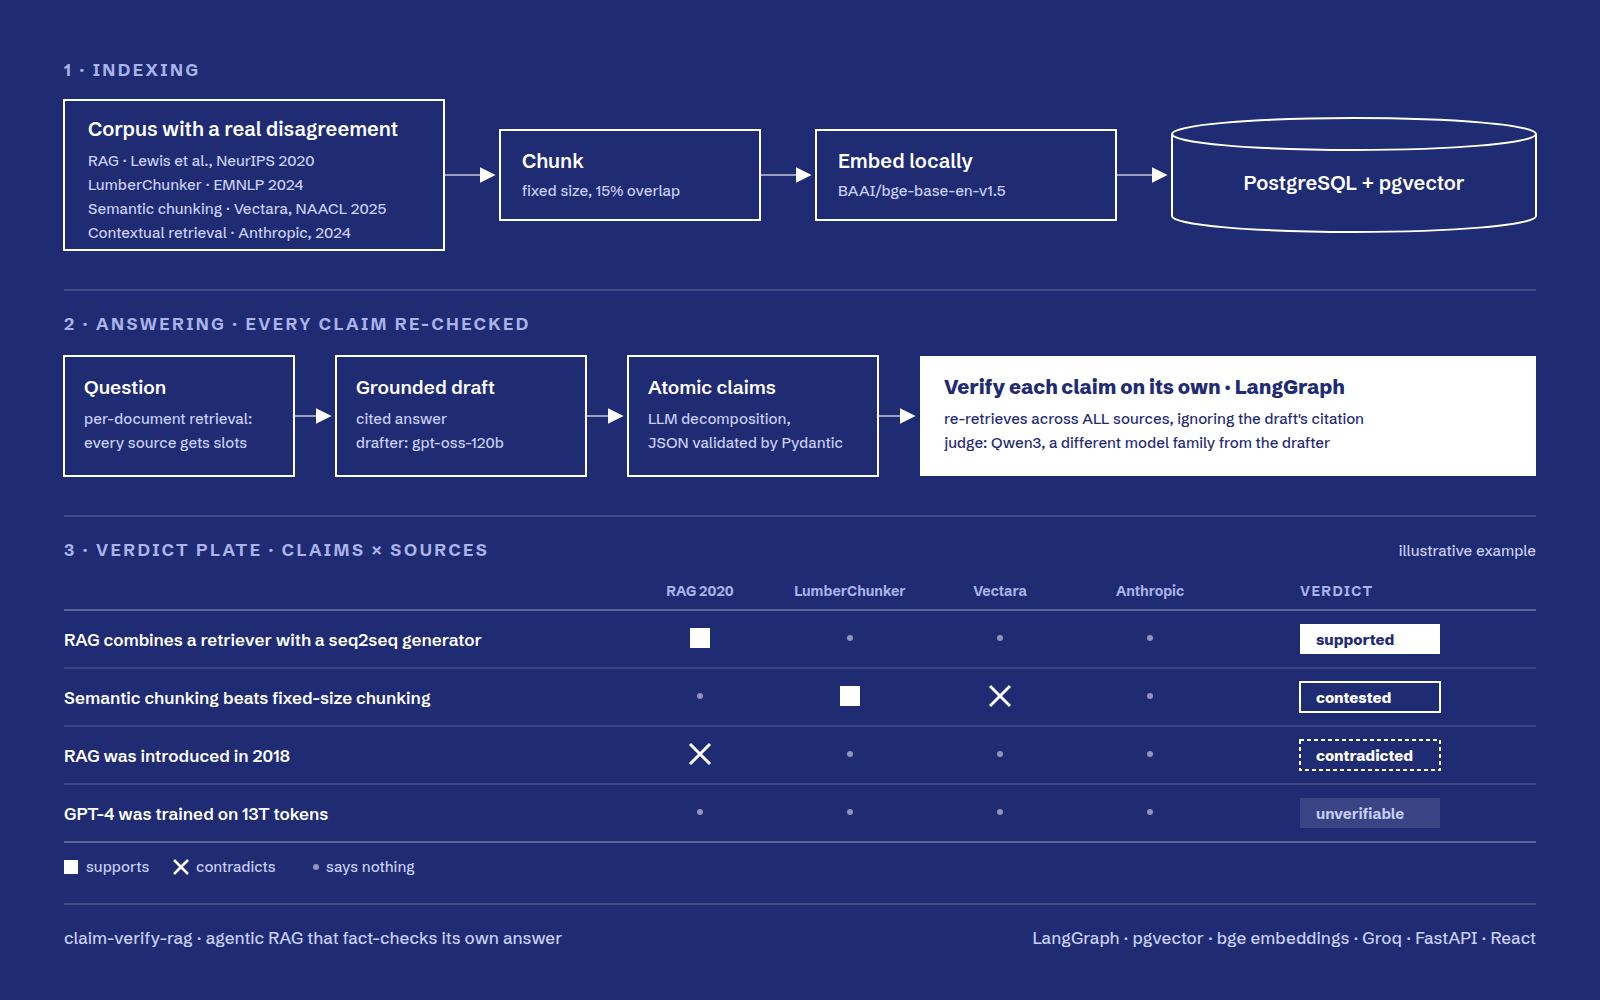
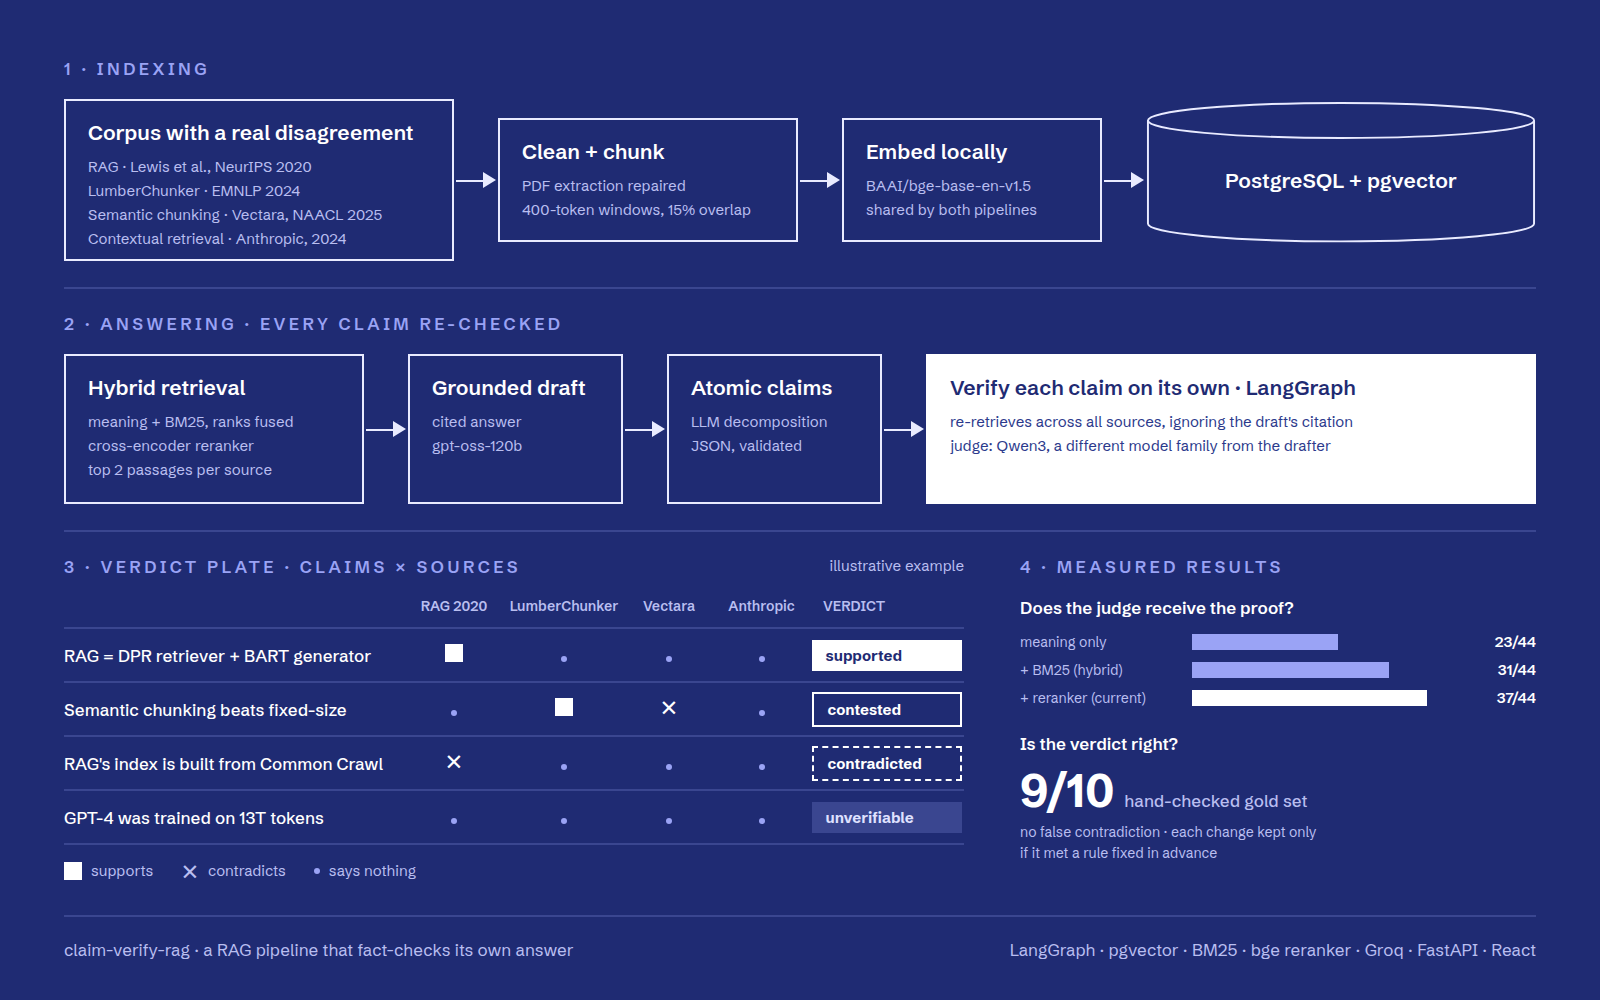
Redraw Claim-Verify RAG diagram and update CV

diff --git a/index.html b/index.html
@@ -1285,7 +1285,7 @@
       <div class="project-body grid">
         <div class="project-media diagram">
           <img src="assets/projects/rag.png"
-            alt="Architecture: a four-paper corpus is chunked, embedded locally and stored in pgvector; an answer is drafted, split into atomic claims, and each claim is re-verified across all sources, producing a claims-by-sources verdict plate"
+            alt="Architecture: a four-source corpus is cleaned, chunked, embedded locally and stored in pgvector; hybrid retrieval with a reranker feeds a cited draft, which is split into atomic claims, each re-verified across all sources by a separate judge model, producing a claims-by-sources verdict plate. Results: the proof reaches the judge for 37 of 44 claims, up from 23, and verdicts are correct on 9 of 10 gold claims"
             loading="lazy">
         </div>
         <div class="project-text">
